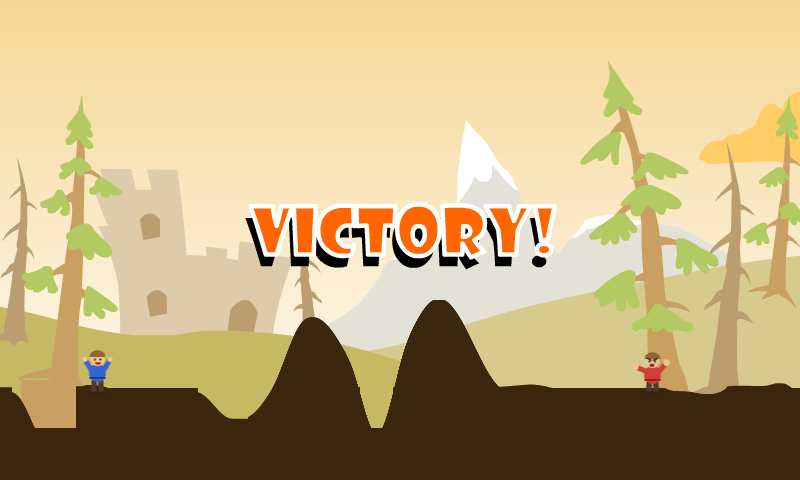
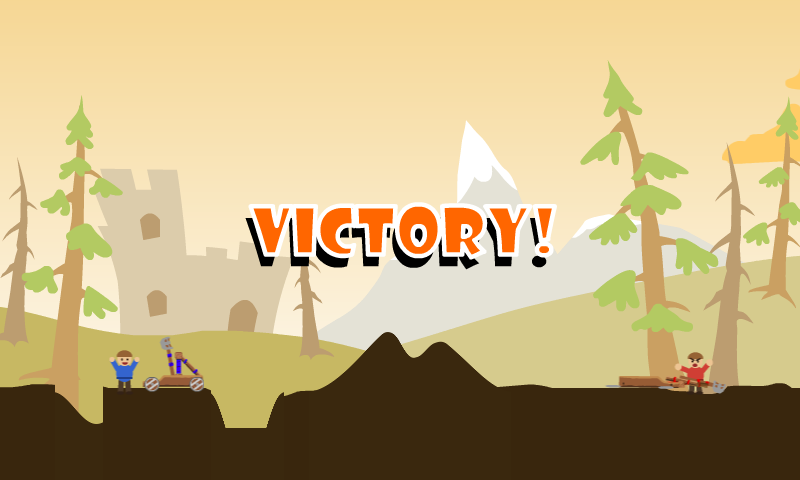
[CatapultWars] Catapults on the victory screen, long HUD names shrink then ellipsis, itch devlog draft

Changed region(s): [[0.0, 0.625, 0.625, 0.9062], [0.75, 0.7188, 0.9062, 0.8438], [0.875, 0.1562, 1.0, 0.3438]]

diff --git a/CatapultWars/Core/Screens/GameplayScreen.cs b/CatapultWars/Core/Screens/GameplayScreen.cs
@@ -911,8 +911,8 @@ namespace CatapultGame
 		/// </summary>
 		void DrawPlayer(GameTime gameTime)
 		{
-			if (!gameOver)
-				playerOne.Draw(gameTime);
+			// Still drawn when the match is over, so the victory screen has its catapults
+			playerOne.Draw(gameTime);
 		}
 
 		/// <summary>
@@ -920,8 +920,7 @@ namespace CatapultGame
 		/// </summary>
 		void DrawComputer(GameTime gameTime)
 		{
-			if (!gameOver)
-				playerTwo.Draw(gameTime);
+			playerTwo.Draw(gameTime);
 		}
 
 		/// <summary>
@@ -1071,14 +1070,14 @@ namespace CatapultGame
 				ScreenManager.SpriteBatch.Draw(hudBackgroundTexture, playerOneHUDPosition, Color.White);
 				DrawAmmoIcon(playerOneHUDPosition + new Vector2(33, 35));
 				DrawString(hudFont, playerOne.Score.ToString(), playerOneHUDPosition + new Vector2(123, 35), Color.White);
-				DrawString(hudFont, playerOne.Name, playerOneHUDPosition + new Vector2(40, 1), Color.Blue);
+				DrawName(playerOne.Name, playerOneHUDPosition + new Vector2(NameOffsetX, 1), Color.Blue);
 				DrawAimReadout(playerOne, playerOneHUDPosition);
 
 				// Draw Computer Hud
 				ScreenManager.SpriteBatch.Draw(hudBackgroundTexture, computerHUDPosition, Color.White);
 				DrawAmmoIcon(computerHUDPosition + new Vector2(33, 35));
 				DrawString(hudFont, playerTwo.Score.ToString(), computerHUDPosition + new Vector2(123, 35), Color.White);
-				DrawString(hudFont, playerTwo.Name, computerHUDPosition + new Vector2(40, 1), Color.Red);
+				DrawName(playerTwo.Name, computerHUDPosition + new Vector2(NameOffsetX, 1), Color.Red);
 				DrawAimReadout(playerTwo, computerHUDPosition);
 
 				// Draw Wind direction
@@ -1145,6 +1144,35 @@ namespace CatapultGame
 							 ScreenManager.BASE_BUFFER_HEIGHT - size.Y),
 							Color.Green);
 			}
+		}
+
+		/// <summary>
+		/// Draws a player's name on the HUD scroll. A name that is too long is shrunk a little, and if
+		/// it still does not fit it is cut short with "..." where it was shortened.
+		/// </summary>
+		// Names start this far into the HUD scroll
+		const float NameOffsetX = 20f;
+
+		void DrawName(string name, Vector2 position, Color color)
+		{
+			// The far end of the scroll needs a small margin
+			float room = hudBackgroundTexture.Width - NameOffsetX - 6;
+			const float smallest = 0.8f;
+
+			float scale = Math.Min(1f, room / hudFont.MeasureString(name).X);
+			if (scale < smallest)
+			{
+				scale = smallest;
+				while (name.Length > 1 && hudFont.MeasureString(name + "...").X * scale > room)
+					name = name.Substring(0, name.Length - 1);
+				name = name.TrimEnd() + "...";
+			}
+
+			// Keep the middle of the line where it was, however small the name is drawn
+			position.Y += (1f - scale) * hudFont.LineSpacing / 2f;
+			SpriteBatch batch = ScreenManager.SpriteBatch;
+			batch.DrawString(hudFont, name, position + new Vector2(1, 1), Color.Black, 0f, Vector2.Zero, scale, SpriteEffects.None, 0f);
+			batch.DrawString(hudFont, name, position, color, 0f, Vector2.Zero, scale, SpriteEffects.None, 0f);
 		}
 
 		/// <summary>

diff --git a/CatapultWars/itch/devlog-halloween4.md b/CatapultWars/itch/devlog-halloween4.md
@@ -1,0 +1,34 @@
+# Catapult Wars: it's not just left and right any more
+
+Same two catapults, same home network, but this update changes how every shot feels. Here's what's new.
+
+## Aim it, don't just fling it
+
+- **Pull back to aim.** Drag back from your catapult like a slingshot. How far you pull sets the power, and which way you pull sets the angle.
+- **Angle and Power readouts** sit under each player. They show the numbers of the last shot, and update live while you pull, so you know exactly what to change on the next one.
+- **See the AI aim.** The AI now draws its arrow too, and you can watch it settle on a shot before it fires. It's also been dialled back a little, so it misses about as often as you do.
+
+## A battlefield you can change
+
+- **A hill in the middle**, and every shot that lands digs a **crater**, in the hill as well as the ground. Lobbing over it or tunnelling through it is up to you.
+- **A new layout every game.** The hill's height and shape change, and so does the distance between the catapults. On a LAN game the host decides, so both screens show exactly the same battlefield.
+- **A crew member** stands beside each catapult. They cheer when their side scores and shake both fists when the other side does.
+
+## Feels better
+
+- **Slow-mo zoom** when a shot is about to hit a catapult, and a **little camera shake** when it lands.
+- **Smoother animations.** They now run on time rather than frames, so there's no more jerkiness when the frame rate wobbles.
+- **Esc goes back** a screen, and menus wrap around when you press up or down past the end.
+- **A new icon:** the blue catapult, with its crew.
+- **Player names** no longer show the odd `_xxxxxxxx` ending in the lobby.
+
+## Fixed
+
+- **Catapult vanishing at full power.** At 95% power or above the catapult disappeared and two odd lines were drawn.
+- **LAN: the second player's shot fired by itself.** The player joining a game fired the moment they started to drag. They don't now.
+
+## Download
+
+Windows, macOS (installer), Linux and Android builds are on the page. For LAN games, both players should be on this version, because the battlefield layout is shared between them.
+
+Thanks to everyone who has played so far, and especially those who took the time to tell me what felt wrong. Keep it coming.
